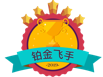
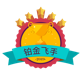
修改图片

diff --git a/src/components/Achievement.vue b/src/components/Achievement.vue
@@ -1,5 +1,5 @@
 <template>
-  <div class="achievement" v-if="grade">
+  <div class="achievement" v-if="grade != ''">
     <h1>答题成就</h1>
     <div class="content">
       <div class="item qingtong" :class="{active: showGrade==='qingtong'}"></div>
@@ -21,20 +21,21 @@ export default {
   },
   mounted() {
     switch (this.grade) {
-      case '黄金飞手':
+      case '2':
         this.showGrade = 'huangjin'
         break
-      case '青铜飞手':
+      case '1':
         this.showGrade = 'qingtong'
         break
-      case '铂金飞手':
+      case '3':
         this.showGrade = 'baijin'
         break
-      case '钻石飞手':
+      case '4':
         this.showGrade = 'zuanshi'
         break
-      case '王者飞手':
+      case '5':
         this.showGrade = 'wangzhe'
+        break
     }
   }
 }
@@ -57,27 +58,47 @@ h1{
 }
 .item{
   flex: 0 0 auto;
-  width: 1.373333rem /* 103/75 */;
-  height: 1.026667rem /* 77/75 */;
+  width: 1.333rem /* 103/75 */;
+  height: 1.333rem /* 77/75 */;
+}
+.item.qingtong.active{
+  background:url(../assets/images/1.png) center center no-repeat;
+  background-size: 1.333rem 1.333rem;
+}
+.item.huangjin.active{
+  background:url(../assets/images/2.png) center center no-repeat;
+  background-size: 1.333rem 1.333rem;
+}
+.item.baijin.active{
+  background:url(../assets/images/3.png) center center no-repeat;
+  background-size: 1.333rem 1.333rem;
+}
+.item.zuanshi.active{
+  background:url(../assets/images/4.png) center center no-repeat;
+  background-size: 1.333rem 1.333rem;
+}
+.item.wangzhe.active{
+  background:url(../assets/images/5.png) center center no-repeat;
+  background-size: 1.333rem 1.333rem;
 }
 .item.qingtong{
-  background:url(../assets/images/1.png) center center no-repeat;
-  background-size: 1.373333rem 1.026667rem;
+  background:url(../assets/images/noactive/1.png) center center no-repeat;
+  background-size: 1.333rem 1.333rem;
 }
 .item.huangjin{
-  background:url(../assets/images/2.png) center center no-repeat;
-  background-size: 1.373333rem 1.026667rem;
+  background:url(../assets/images/noactive/2.png) center center no-repeat;
+  background-size: 1.333rem 1.333rem;
 }
 .item.baijin{
-  background:url(../assets/images/3.png) center center no-repeat;
-  background-size: 1.373333rem 1.026667rem;
+  background:url(../assets/images/noactive/3.png) center center no-repeat;
+  background-size: 1.333rem 1.333rem;
 }
 .item.zuanshi{
-  background:url(../assets/images/4.png) center center no-repeat;
-  background-size: 1.373333rem 1.026667rem;
+  background:url(../assets/images/noactive/4.png) center center no-repeat;
+  background-size: 1.333rem 1.333rem;
 }
 .item.wangzhe{
-  background:url(../assets/images/5.png) center center no-repeat;
-  background-size: 1.373333rem 1.026667rem;
+  background:url(../assets/images/noactive/5.png) center center no-repeat;
+  background-size: 1.333rem 1.333rem;
 }
 </style>

diff --git a/src/views/Home.vue b/src/views/Home.vue
@@ -40,7 +40,7 @@ export default {
     async getGrade() {
       // 获取用户等级
       let userData = await getAchievement(Listener.token, Listener.userId)
-      this.grade = userData.grade
+      this.grade = userData.gradeType
     }
   }
 }
